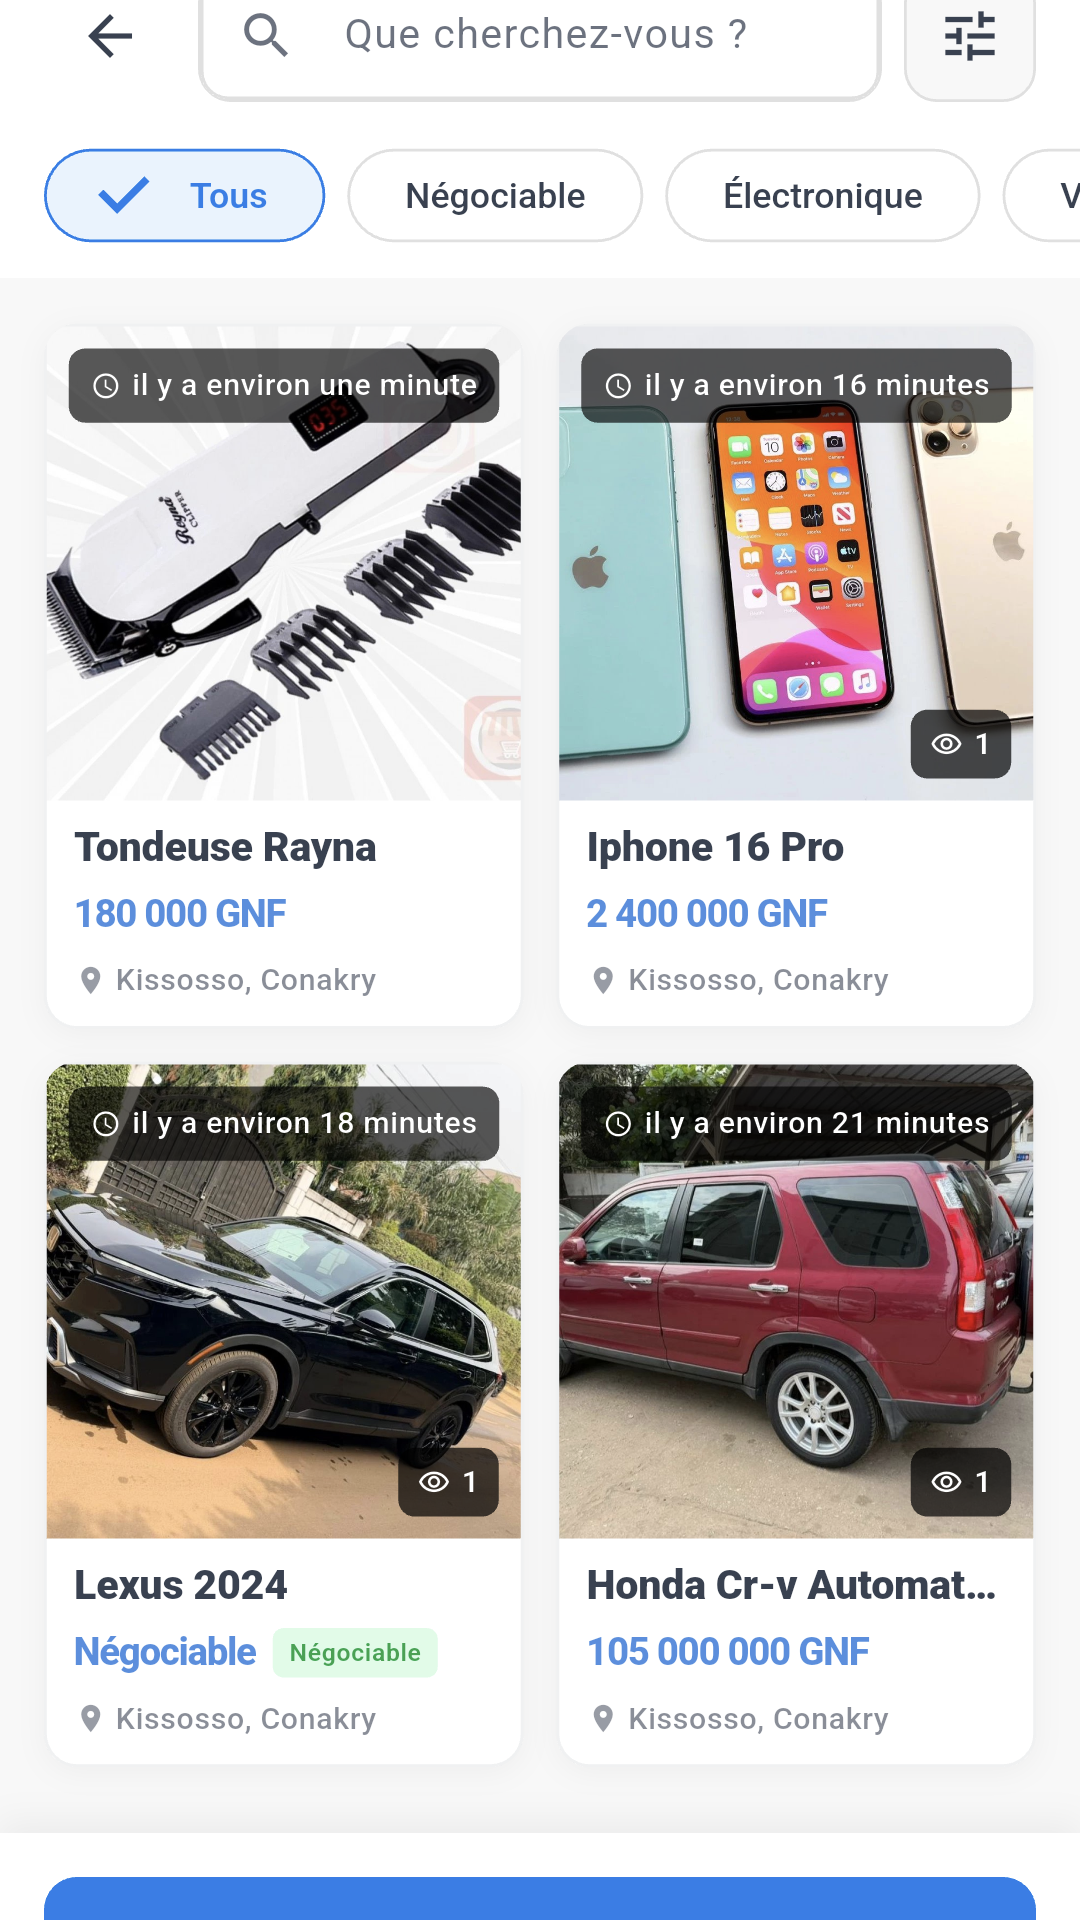
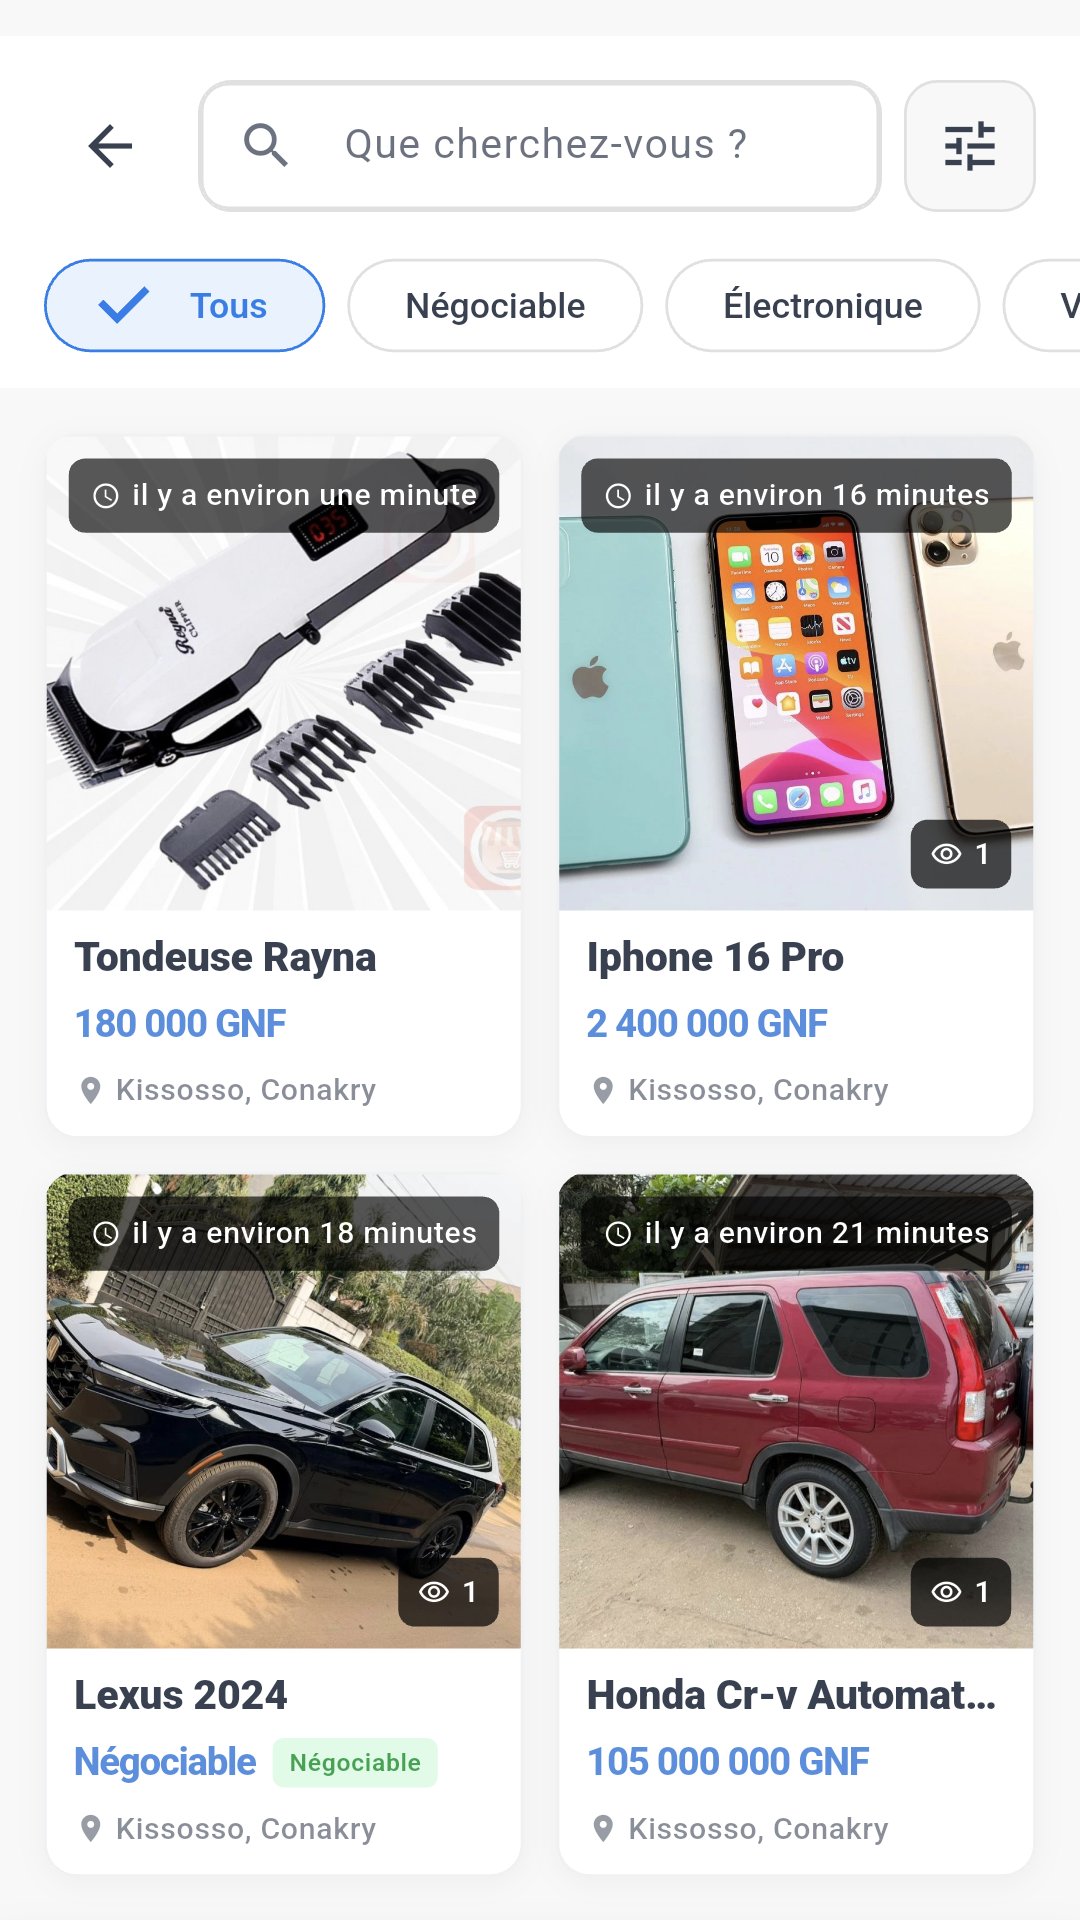
Fix screenshots: remove status bar, clean up sections
- Re-crop Play Store screenshots (remove 100px status bar from top)
- Remove placeholder image from download section
- Remove annonces_list.png from screenshots gallery (now 4 images)

diff --git a/index.html b/index.html
@@ -276,9 +276,6 @@
                     <img src="images/screenshots/ecran_accueil.png" alt="Écran d'accueil Kalouma" loading="lazy">
                 </div>
                 <div class="screenshot-item">
-                    <img src="images/screenshots/annonces_list.png" alt="Liste des annonces" loading="lazy">
-                </div>
-                <div class="screenshot-item">
                     <img src="images/screenshots/detail_annonce.png" alt="Détail d'une annonce" loading="lazy">
                 </div>
                 <div class="screenshot-item">
@@ -319,9 +316,6 @@
                         <img src="images/qr-code.png" alt="QR Code" onerror="this.style.display='none'">
                         <span>Scannez pour télécharger</span>
                     </div>
-                </div>
-                <div class="download-image">
-                    <img src="images/phones-mockup.png" alt="Kalouma Market sur mobile" onerror="this.src='https://placehold.co/500x400/2E7D32/white?text=Kalouma+Market'">
                 </div>
             </div>
         </div>
